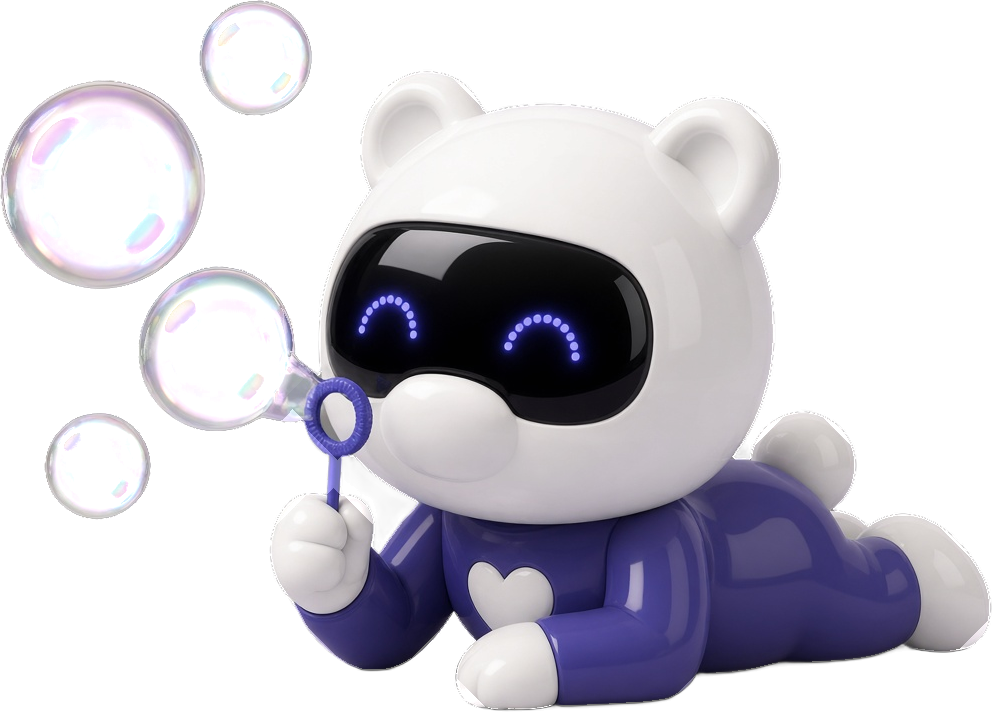
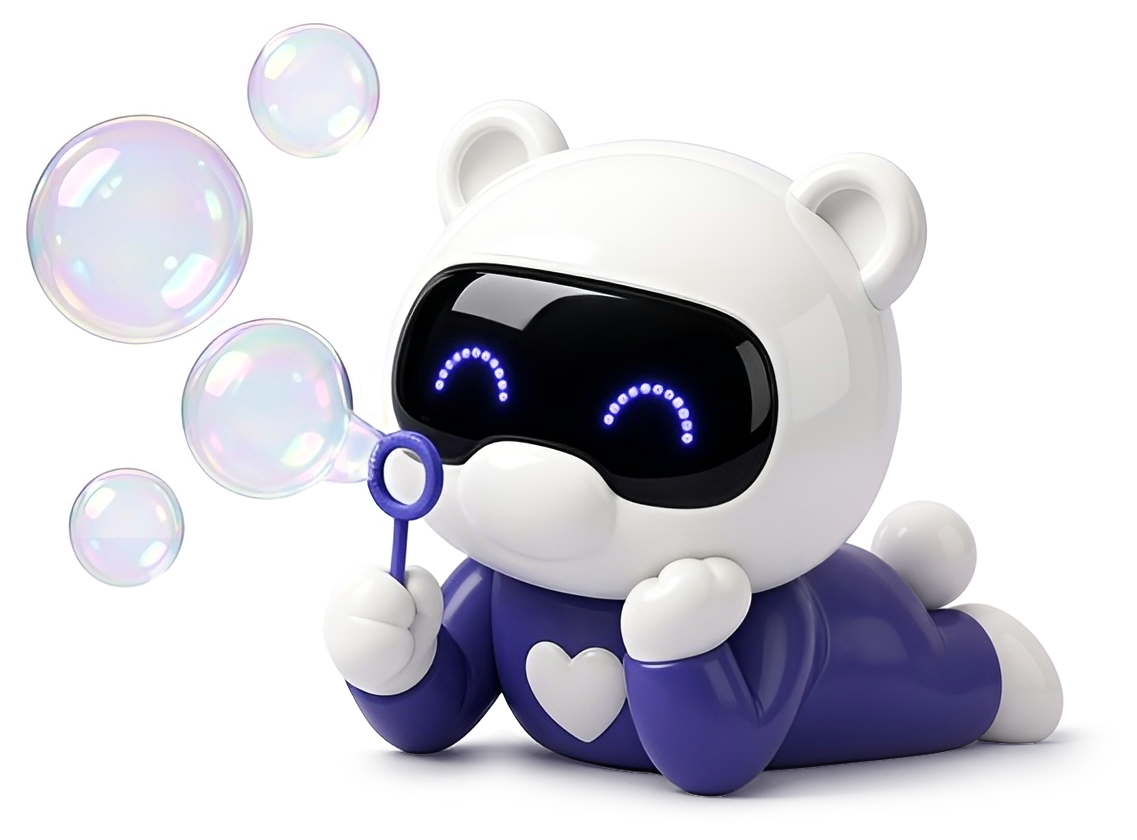
feat(app): sit the approved bubbles hero on the home sheet
The pose includes its contact shadow, so the sheet meets that shadow and the CSS overlap can go.

Changed region(s): [[0.0, 0.0, 1.0, 1.0], [0.375, 0.1236, 0.5, 0.2472]]

diff --git a/app/src/app/chat/page.test.ts b/app/src/app/chat/page.test.ts
@@ -91,8 +91,8 @@ it("shows the bubbles pose on the empty home sheet", () => {
     throw new Error("missing home hero");
   }
   expect(img.getAttribute("src")).toBe("/mascot/bubbles.webp");
-  expect(img.getAttribute("width")).toBe("992");
-  expect(img.getAttribute("height")).toBe("712");
+  expect(img.getAttribute("width")).toBe("1137");
+  expect(img.getAttribute("height")).toBe("840");
   const heroStart = chatCss.indexOf(".chat-hero-mascot {");
   const heroEnd = chatCss.indexOf("}", heroStart);
   if (heroStart < 0 || heroEnd < 0) {
@@ -101,22 +101,30 @@ it("shows the bubbles pose on the empty home sheet", () => {
   const hero = chatCss.slice(heroStart, heroEnd);
   expect({
     alt: img.getAttribute("alt"),
-    overlap: chatCss.includes("--mascot-overlap: 26px;"),
-    width: hero.includes("width: min(280px, 100%);"),
-    marginTop: hero.includes("margin-top: 0;"),
+    overlap: chatCss.includes("--mascot-overlap"),
+    width: hero.includes("width: 284px;"),
+    left: hero.includes("margin-left: 29px;"),
+    top: hero.includes("margin-top: -5px;"),
+    align: hero.includes("align-self: flex-start;"),
+    fit: hero.includes("object-fit: contain;"),
     clippedTop: hero.includes("-16px"),
-    bottomOverlap: hero.includes("calc(-1 * var(--mascot-overlap))"),
+    sheet: hero.includes("calc(284px * (718 - 840) / 1137)"),
     float: chatCss.includes("float"),
-    aspect: hero.includes("aspect-ratio: 992 / 712"),
+    aspect: hero.includes("aspect-ratio: 1137 / 840"),
+    shadow: hero.includes("filter:") || hero.includes("box-shadow"),
   }).toEqual({
     alt: "",
-    overlap: true,
+    overlap: false,
     width: true,
-    marginTop: true,
+    left: true,
+    top: true,
+    align: true,
+    fit: true,
     clippedTop: false,
-    bottomOverlap: true,
+    sheet: true,
     float: false,
     aspect: true,
+    shadow: false,
   });
 });
 
@@ -137,31 +145,53 @@ it("rests the bubbles pose on the top edge of the sheet", () => {
   }
   const hero = chatCss.slice(heroStart, heroEnd);
   const sheet = chatCss.slice(sheetStart, sheetEnd);
+  const pull = /margin-bottom:\s*calc\((\d+)px \* \((\d+) - (\d+)\) \/ (\d+)\)/.exec(hero);
+  if (pull === null) {
+    throw new Error("missing sheet alignment");
+  }
+  const cssWidth = Number(pull[1]);
+  const sheetRow = Number(pull[2]);
+  const assetHeight = Number(pull[3]);
+  const assetWidth = Number(pull[4]);
+  const fromTop = (cssWidth * sheetRow) / assetWidth;
   expect({
     width: img.getAttribute("width"),
     height: img.getAttribute("height"),
-    aspect: hero.includes("aspect-ratio: 992 / 712"),
+    aspect: hero.includes("aspect-ratio: 1137 / 840"),
     filtered: hero.includes("filter:") || hero.includes("blur("),
     shadow: sheet.includes("radial-gradient("),
-    overlap: chatCss.includes("--mascot-overlap: 26px;"),
-    marginTop: hero.includes("margin-top: 0;"),
+    overlap: chatCss.includes("--mascot-overlap"),
+    left: hero.includes("margin-left: 29px;"),
+    top: hero.includes("margin-top: -5px;"),
     clippedTop: hero.includes("-16px"),
     insetLeft: sheet.includes("margin-left: 10px;"),
     insetRight: sheet.includes("margin-right: 8px;"),
     radius: chatCss.includes("--radius-sheet: 34px;"),
+    cssWidth,
+    sheetRow,
+    assetWidth,
+    assetHeight,
+    fromTop,
   }).toEqual({
-    width: "992",
-    height: "712",
+    width: "1137",
+    height: "840",
     aspect: true,
     filtered: false,
     shadow: false,
-    overlap: true,
-    marginTop: true,
+    overlap: false,
+    left: true,
+    top: true,
     clippedTop: false,
     insetLeft: true,
     insetRight: true,
     radius: true,
+    cssWidth: 284,
+    sheetRow: 718,
+    assetWidth: 1137,
+    assetHeight: 840,
+    fromTop: (284 * 718) / 1137,
   });
+  expect(fromTop).toBeCloseTo(179.34, 2);
 });
 
 it("paints the home chips and composer white, and the profile face lavender", async () => {

diff --git a/app/src/sync-mascot-webps.test.ts b/app/src/sync-mascot-webps.test.ts
@@ -44,8 +44,8 @@ it("registers the bubbles pose", async () => {
   const png = path.join(sourceRoot, relative);
   expect(existsSync(png)).toBe(true);
   const meta = await sharp(png).metadata();
-  expect(meta.width).toBe(992);
-  expect(meta.height).toBe(712);
+  expect(meta.width).toBe(1137);
+  expect(meta.height).toBe(840);
   expect(meta.hasAlpha).toBe(true);
   const hash = createHash("sha256").update(readFileSync(png)).digest("hex");
   const sums = readFileSync(path.join(sourceRoot, "SHA256SUMS"), "utf8");
@@ -58,7 +58,7 @@ it("registers the bubbles pose", async () => {
 });
 
 it("serves the bubbles pose at the full source size", async () => {
-  const cssWidth = 329;
+  const cssWidth = 284;
   const publicDir = tempPublic();
   const pngPath = path.join(sourceRoot, "body/bubbles.png");
   await syncMascotWebps({ publicDir, sourceRoot });
@@ -68,6 +68,7 @@ it("serves the bubbles pose at the full source size", async () => {
   const sourceWidth = sourceMeta.width ?? 0;
   const sourceHeight = sourceMeta.height ?? 0;
   const neededWidth = Math.min(sourceWidth, cssWidth * 3);
+  expect(sourceWidth).toBeGreaterThanOrEqual(cssWidth * 3);
   const neededHeight = Math.min(sourceHeight, Math.ceil((cssWidth * sourceHeight) / sourceWidth * 3));
   expect({
     width: meta.width,
@@ -138,8 +139,8 @@ it("writes the webps the chat UI names, and only those", async () => {
   }
 
   const bubbles = await sharp(path.join(destDir, "bubbles.webp")).metadata();
-  expect(bubbles.width).toBe(992);
-  expect(bubbles.height).toBe(712);
+  expect(bubbles.width).toBe(1137);
+  expect(bubbles.height).toBe(840);
 
   for (const [index, item] of mascotWebps.entries()) {
     const source = sources[index];

diff --git a/app/src/app/chat/chat.css b/app/src/app/chat/chat.css
@@ -22,7 +22,6 @@
   --bubble-pad-x: 16px;
   --composer-side: 16px;
   --page-pad-wide: 24px;
-  --mascot-overlap: 26px;
   --motion-shift: 12px;
   --card-line: 1px solid var(--color-border);
   --card-shadow: 0 2px 8px rgba(12, 10, 102, 0.04);
@@ -221,12 +220,13 @@
 .chat-hero-mascot {
   position: relative;
   z-index: 1;
-  width: min(280px, 100%);
-  max-width: 100%;
+  align-self: flex-start;
+  width: 284px;
   height: auto;
-  margin-top: 0;
-  margin-bottom: calc(-1 * var(--mascot-overlap));
-  aspect-ratio: 992 / 712;
+  margin-top: -5px;
+  margin-left: 29px;
+  margin-bottom: calc(284px * (718 - 840) / 1137);
+  aspect-ratio: 1137 / 840;
   object-fit: contain;
 }
 

diff --git a/app/src/app/chat/page.tsx b/app/src/app/chat/page.tsx
@@ -524,8 +524,8 @@ export default function ChatPage() {
                 className="chat-hero-mascot"
                 src={heroSrc}
                 alt=""
-                width={992}
-                height={712}
+                width={1137}
+                height={840}
               />
               <div className="chat-sheet">
                 {empty ? (

diff --git a/shared/assets/mascot/README.md b/shared/assets/mascot/README.md
@@ -32,7 +32,7 @@ The files in `body/`, in `duo/`, and in `avatar/` match no moment.
 - `clipboard.png` is the pose where Steve holds a clipboard with checkboxes. The file is 469 by 861 pixels.
 - `sitting.png` is the pose where Steve sits with crossed legs. The file is 500 by 849 pixels.
 - `calling.png` is the pose where Steve holds the phone to one ear, with the other hand open. The file is 599 by 857 pixels. This is not the bust `states/calling.png`.
-- `bubbles.png` is the home-sheet pose. Steve lies on his belly and blows soap bubbles. The file is 992 by 712 pixels.
+- `bubbles.png` is the home-sheet pose. Steve lies on his belly and blows soap bubbles. The file is 1137 by 840 pixels and includes the contact shadow.
 - `lounge-call.png` is a square icon-style illustration, on a lavender background `#DAC4E8`. The file is 1024 by 1024 pixels. This is not a transparent pose.
 
 `duo/` holds Steve with Alan the marmot. Each file is an opaque JPEG of 1152 by 864 pixels.

diff --git a/app/README.md b/app/README.md
@@ -93,7 +93,7 @@ The encoder is sharp 0.35.5, a dependency of `@steve/app`. Next.js lists the sam
 
 The chat page loads two files.
 
-- `bubbles.webp` comes from `body/bubbles.png` with no resize. The file stays 992 by 712, which matches the `width` and `height` on the hero image. The hero draws it at `min(280px, 100%)`.
+- `bubbles.webp` comes from `body/bubbles.png` with no resize. The file stays 1137 by 840, which matches the `width` and `height` on the hero image. The encode is lossless. The hero draws it at 284px.
 - `pfp-lavender.webp` comes from `avatar/pfp-lavender.png`, scaled to 192 by 192.
 
 `app/src/chat/faces.ts` names five more files for `faceFor`. The chat page does not call `faceFor`. The generator still writes them so those URLs resolve.
